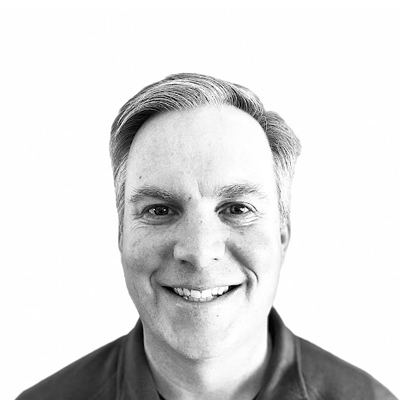
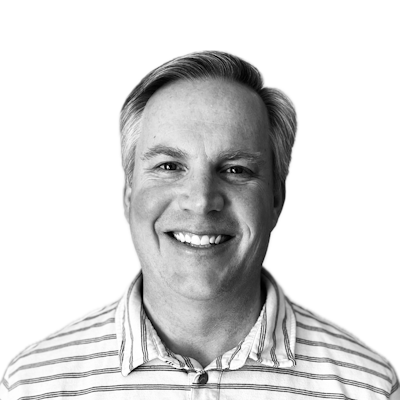
fix: better photo for scott

diff --git a/src/data/staff.ts b/src/data/staff.ts
@@ -33,11 +33,11 @@ export const staff = [
   },
   {
     name: 'Scott Davis',
-    team: 'Development Team',
+    team: 'Development Team Lead',
     phone: '801-699-7187',
     email: 'stdavis@utah.gov',
     x: '@SThomasDavis',
-    tags: ['web development', 'React', 'JavaScript', 'apps', 'data management'],
+    tags: ['web development', 'React', 'JavaScript', 'apps', 'data management', 'AI'],
   },
   {
     name: 'Michael Foulger',
